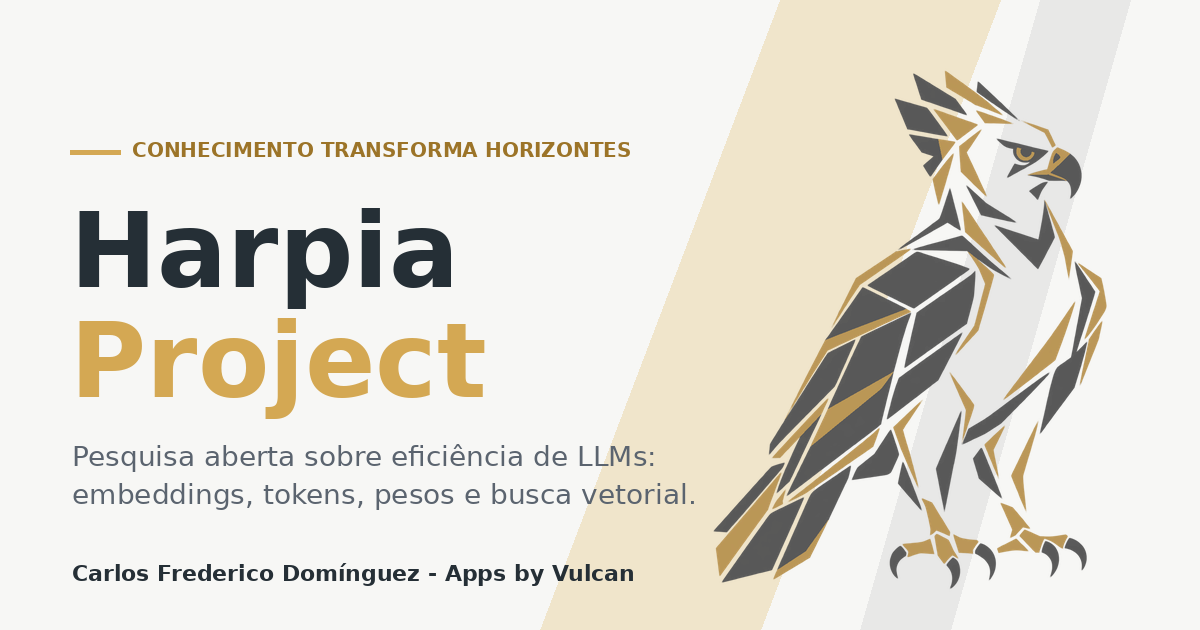
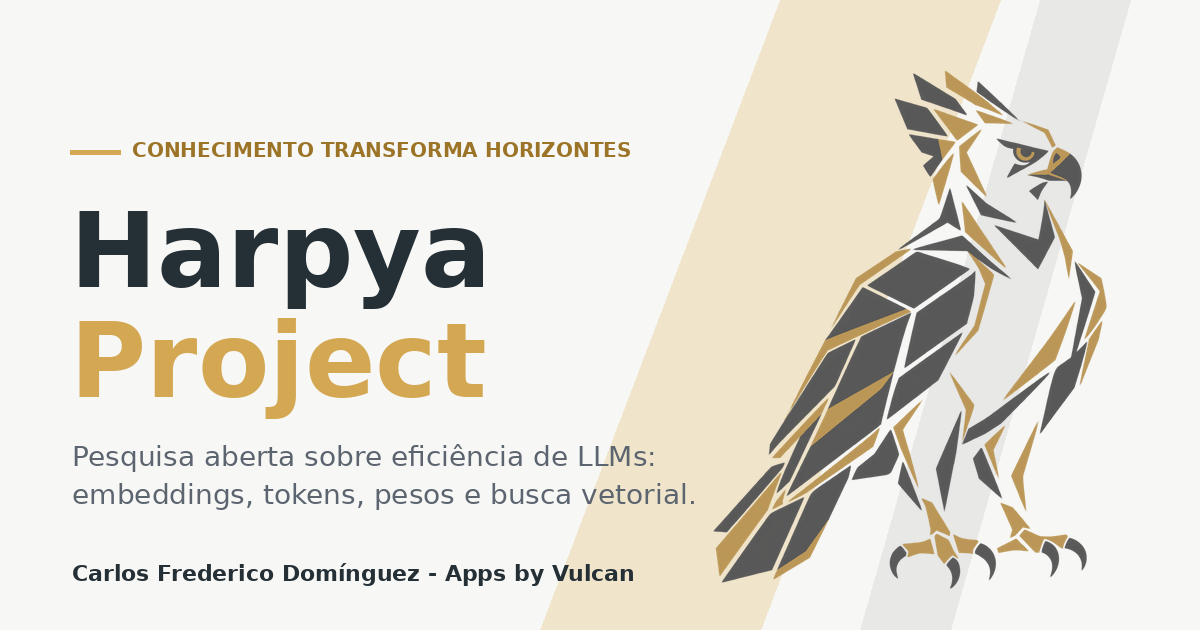
Renomeia a marca de Harpia para Harpya
Troca o nome em textos, wordmark, logo, imagem de compartilhamento,
metadados, robôs e documentação. Mantém o nome do repositório e o
endereço da Vercel, que são identificadores de infraestrutura.

Claude-Session: https://claude.ai/code/session_019Af9JswdvZQNp3k1NzTpKX

Changed region(s): [[0.2775, 0.3317, 0.4008, 0.5127]]

diff --git a/src/config.ts b/src/config.ts
@@ -1,7 +1,7 @@
 // Configuração central do site. Edite aqui, não espalhe valores pelas páginas.
 
 export const SITE = {
-  nome: "Harpia Project",
+  nome: "Harpya Project",
   lema: "Conhecimento transforma horizontes",
   descricao:
     "Pesquisa aberta sobre eficiência de LLMs: embeddings, tokens, pesos e busca vetorial. Só entram caminhos com equação, custo e teste refutável.",

diff --git a/src/styles/global.css b/src/styles/global.css
@@ -1,4 +1,4 @@
-/* Harpia Project: estilos globais.
+/* Harpya Project: estilos globais.
    Base visual do protótipo (ouro, carvão, superfícies claras), com modo escuro. */
 
 :root {

diff --git a/scripts/coletar_news.py b/scripts/coletar_news.py
@@ -1,4 +1,4 @@
-"""Robô de news do Harpia Project.
+"""Robô de news do Harpya Project.
 
 Lê os feeds listados em src/data/feeds.json, mantém só itens ligados aos caminhos
 do projeto e grava public/data/news.json. Roda no GitHub Actions a cada 6 horas.
@@ -23,7 +23,7 @@ SAIDA = RAIZ / "public" / "data" / "news.json"
 MAX_ITENS = 40
 MAX_DIAS = 30
 
-# Termos que ligam um item aos caminhos do Harpia.
+# Termos que ligam um item aos caminhos do Harpya.
 TERMOS = re.compile(
     r"embedding|vector (search|database|index|quantiz)|nearest[- ]neighbo|retriev|rerank|quantiz|"
     r"inner[- ]product|\bMIPS\b|rabitq|matryoshka|lattice|softmax|vocabular|tokeniz|kv[- ]cache|"
@@ -48,7 +48,7 @@ def coletar() -> list[dict]:
         if not url:
             continue  # fontes sem RSS (Anthropic, CERN) ficam para o coletor de página
         try:
-            feed = feedparser.parse(url, agent="harpia-project-news/1.0")
+            feed = feedparser.parse(url, agent="harpya-project-news/1.0")
         except Exception as erro:  # um feed fora do ar não derruba os outros
             print(f"[aviso] {f['nome']}: {erro}")
             continue

diff --git a/scripts/coletar_candidatos.py b/scripts/coletar_candidatos.py
@@ -1,4 +1,4 @@
-"""Coletor de candidatos para a curadoria do Harpia Project.
+"""Coletor de candidatos para a curadoria do Harpya Project.
 
 Busca artigos (arXiv), vídeos (YouTube Data API v3, opcional) e livros (Open Library)
 e grava curadoria/candidatos.json. Nada aqui vai direto para o site: o workflow
@@ -21,7 +21,7 @@ import requests
 RAIZ = Path(__file__).resolve().parent.parent
 SAIDA = RAIZ / "curadoria" / "candidatos.json"
 DADOS = RAIZ / "src" / "data"
-UA = {"User-Agent": "harpia-project-curadoria/1.0"}
+UA = {"User-Agent": "harpya-project-curadoria/1.0"}
 
 # Consultas ligadas aos caminhos. Edite à vontade.
 ARXIV = [

diff --git a/docs/CURADORIA.md b/docs/CURADORIA.md
@@ -14,7 +14,7 @@ Recomendado: uma **tarefa agendada do Claude**, semanal, logo depois da coleta, 
 
 Copie o texto abaixo como instrução da tarefa:
 
-> Você é o curador do Harpia Project (repositório `freddominugez/harpia-project`). Abra o pull request mais recente com título "Curadoria: candidatos da semana". Leia `curadoria/candidatos.json`, `docs/CURADORIA.md` e os caminhos em `src/content/caminhos/`. Para cada candidato, dê nota de 0 a 10 em cada critério da régua e calcule a média ponderada. Aprove só itens com média 7 ou mais e no máximo 5 por tipo. Acrescente os aprovados em `src/data/videos.json`, `src/data/artigos.json` ou `src/data/livros.json`, no formato dos itens que já existem, e confira cada link. Para artigos, preencha `selo` e `rotulo` dizendo qual caminho o artigo sustenta. Faça commit no mesmo branch do pull request e escreva um comentário com uma tabela: item, notas, média, decisão e uma linha de justificativa. Não faça merge. Não use travessões nos textos.
+> Você é o curador do Harpya Project (repositório `freddominugez/harpia-project`). Abra o pull request mais recente com título "Curadoria: candidatos da semana". Leia `curadoria/candidatos.json`, `docs/CURADORIA.md` e os caminhos em `src/content/caminhos/`. Para cada candidato, dê nota de 0 a 10 em cada critério da régua e calcule a média ponderada. Aprove só itens com média 7 ou mais e no máximo 5 por tipo. Acrescente os aprovados em `src/data/videos.json`, `src/data/artigos.json` ou `src/data/livros.json`, no formato dos itens que já existem, e confira cada link. Para artigos, preencha `selo` e `rotulo` dizendo qual caminho o artigo sustenta. Faça commit no mesmo branch do pull request e escreva um comentário com uma tabela: item, notas, média, decisão e uma linha de justificativa. Não faça merge. Não use travessões nos textos.
 
 ## Régua
 

diff --git a/docs/DEPLOY.md b/docs/DEPLOY.md
@@ -8,8 +8,8 @@ O código está em https://github.com/freddominugez/harpia-project (branch `main
 
 ```bash
 cd ~/Documents/GitHub
-git clone https://github.com/freddominugez/harpia-project.git "Harpia Project"
-cd "Harpia Project" && npm install && npm run dev
+git clone https://github.com/freddominugez/harpia-project.git "Harpya Project"
+cd "Harpya Project" && npm install && npm run dev
 ```
 
 ## 2. Vercel (plano Hobby, gratuito)
@@ -18,7 +18,7 @@ cd "Harpia Project" && npm install && npm run dev
 2. A Vercel detecta o Astro. Mantenha: build `npm run build`, saída `dist`.
 3. **Deploy.** O endereço inicial será algo como `harpia-project.vercel.app`.
 4. Se o endereço for outro, ajuste `site` em `astro.config.mjs` (usado no sitemap e nos links canônicos).
-5. Domínio próprio (opcional): **Settings > Domains**, por exemplo `harpia.byvulcan.com`, com o CNAME indicado pela Vercel.
+5. Domínio próprio (opcional): **Settings > Domains**, por exemplo `harpya.org`, com o CNAME indicado pela Vercel.
 
 Cada push na branch `main` gera um novo deploy. O robô de news faz até 4 commits por dia, bem dentro do limite do plano gratuito.
 

diff --git a/LICENSE-CONTEUDO.md b/LICENSE-CONTEUDO.md
@@ -1,7 +1,7 @@
 # Licença do conteúdo
 
-Os textos, tabelas e imagens do Harpia Project (pastas `src/content`, `src/pages`, `src/data` e `public/img`) estão sob a licença **Creative Commons Atribuição 4.0 Internacional (CC BY 4.0)**: https://creativecommons.org/licenses/by/4.0/deed.pt_BR
+Os textos, tabelas e imagens do Harpya Project (pastas `src/content`, `src/pages`, `src/data` e `public/img`) estão sob a licença **Creative Commons Atribuição 4.0 Internacional (CC BY 4.0)**: https://creativecommons.org/licenses/by/4.0/deed.pt_BR
 
-Atribuição: Carlos Frederico Domínguez, Harpia Project.
+Atribuição: Carlos Frederico Domínguez, Harpya Project.
 
 O código-fonte está sob a licença MIT (arquivo `LICENSE`).

diff --git a/src/pages/sobre.md b/src/pages/sobre.md
@@ -1,9 +1,9 @@
 ---
 layout: ../layouts/Texto.astro
-titulo: "Sobre o Harpia Project"
+titulo: "Sobre o Harpya Project"
 kicker: "Sobre"
 lead: "Pesquisa aberta, conduzida por Carlos Frederico Domínguez, sobre onde a matemática dos modelos de linguagem ainda pode ceder velocidade, memória ou exatidão."
-descricao: "Autoria, método, licença e como contribuir com o Harpia Project."
+descricao: "Autoria, método, licença e como contribuir com o Harpya Project."
 ---
 
 ## Autor

diff --git a/src/pages/biblioteca/glossario.md b/src/pages/biblioteca/glossario.md
@@ -3,7 +3,7 @@ layout: ../../layouts/Texto.astro
 titulo: "Glossário"
 kicker: "Biblioteca"
 lead: "Os termos que aparecem no site, em uma ou duas linhas cada."
-descricao: "Glossário do Harpia Project: embeddings, quantização, busca vetorial e medição."
+descricao: "Glossário do Harpya Project: embeddings, quantização, busca vetorial e medição."
 ---
 
 **Arte prévia.** Trabalho já publicado que contém a ideia ou parte dela. Todo caminho lista a sua.

diff --git a/src/pages/estudos/arquivados.md b/src/pages/estudos/arquivados.md
@@ -3,7 +3,7 @@ layout: ../../layouts/Texto.astro
 titulo: "Arquivados"
 kicker: "Estudos"
 lead: "O que foi avaliado e saiu da lista, com o motivo em uma linha. Arquivar não é esquecer: qualquer item volta se aparecer um mecanismo com equação, custo e teste."
-descricao: "Linhas de pesquisa avaliadas e arquivadas pelo Harpia Project, com o motivo."
+descricao: "Linhas de pesquisa avaliadas e arquivadas pelo Harpya Project, com o motivo."
 ---
 
 ## Geometria

diff --git a/README.md b/README.md
@@ -1,4 +1,4 @@
-# Harpia Project
+# Harpya Project
 
 Pesquisa aberta sobre eficiência de LLMs: embeddings, tokens, pesos e busca vetorial. Só entram caminhos com equação, custo conhecido e teste refutável.
 
